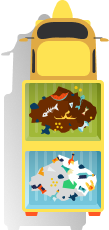
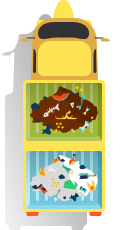
Fix vehicle animation

diff --git a/lib/game/game.dart b/lib/game/game.dart
@@ -232,7 +232,8 @@ class Reseacue extends FlameGame {
           ? VehicleState.wetWaste
           : VehicleState.dryWaste);
       return;
-    } else if (wasteCollectedOrder.length == 1) {
+    } else if (wasteCollectedOrder.length == 1 &&
+        !wasteCollectedOrder.contains(type)) {
       wasteCollectedOrder.add(type);
       changeVehicleAnimation(VehicleState.bothWaste);
       return;
